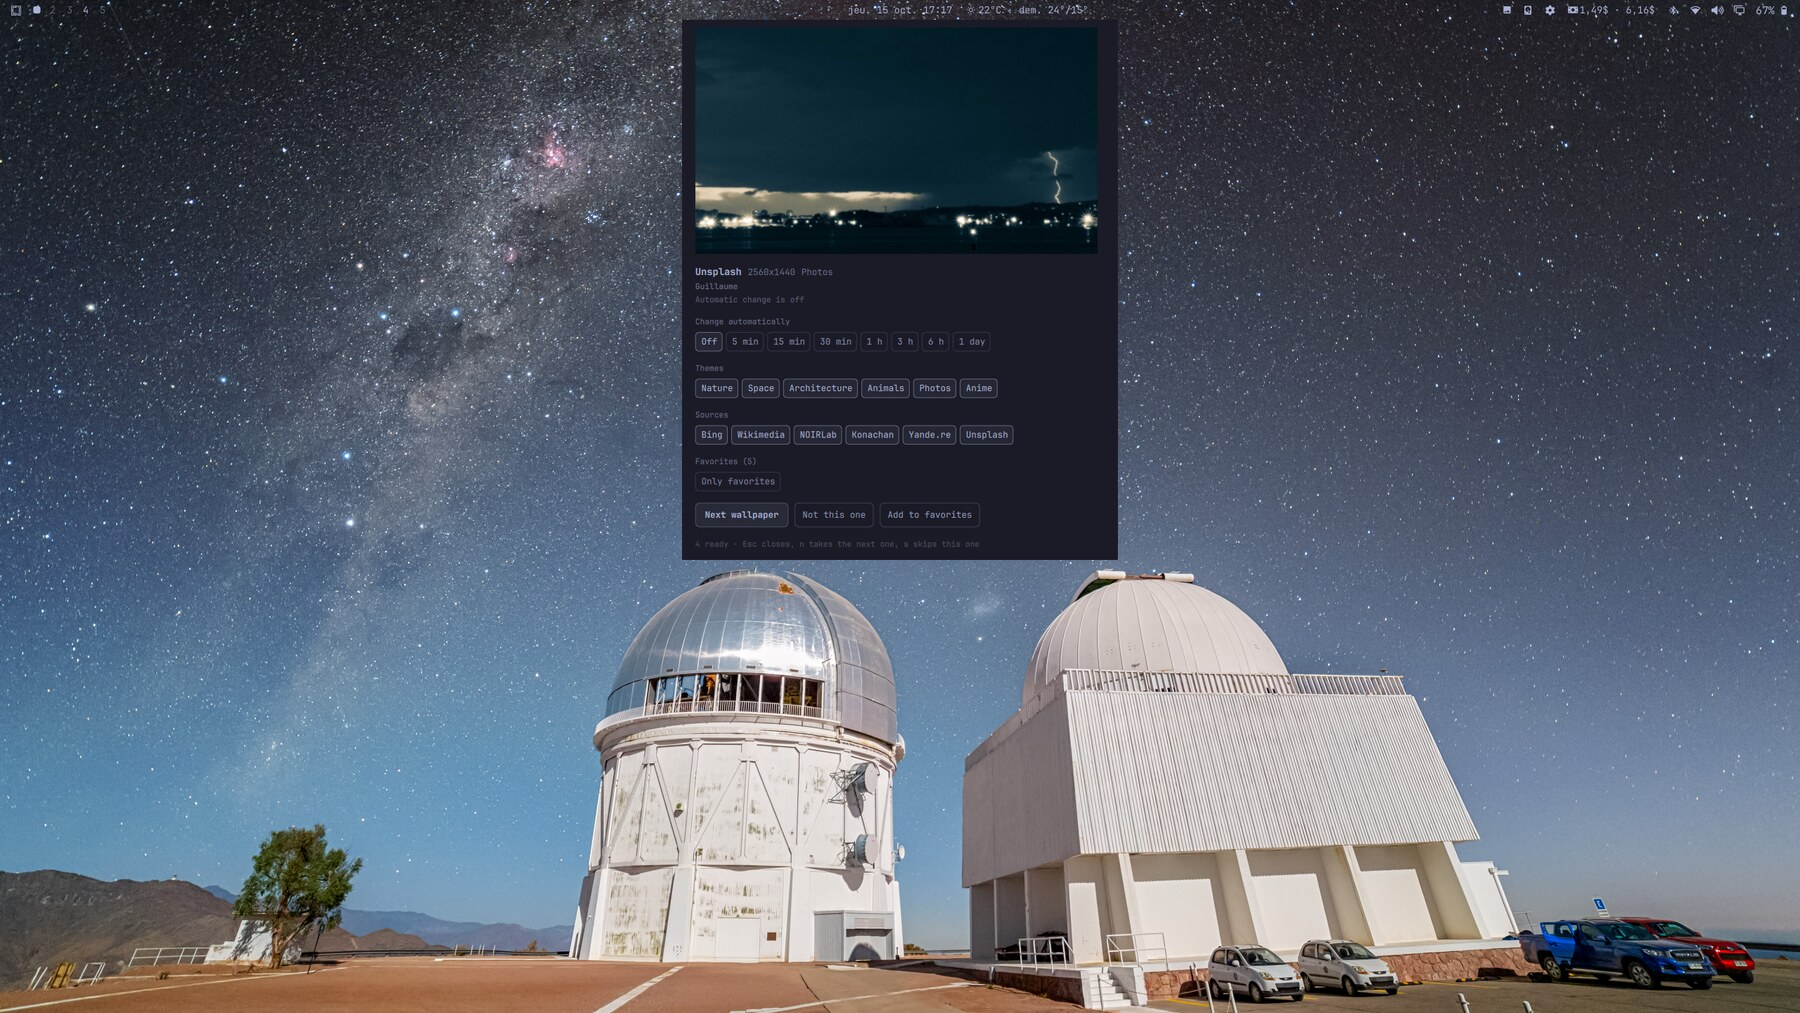
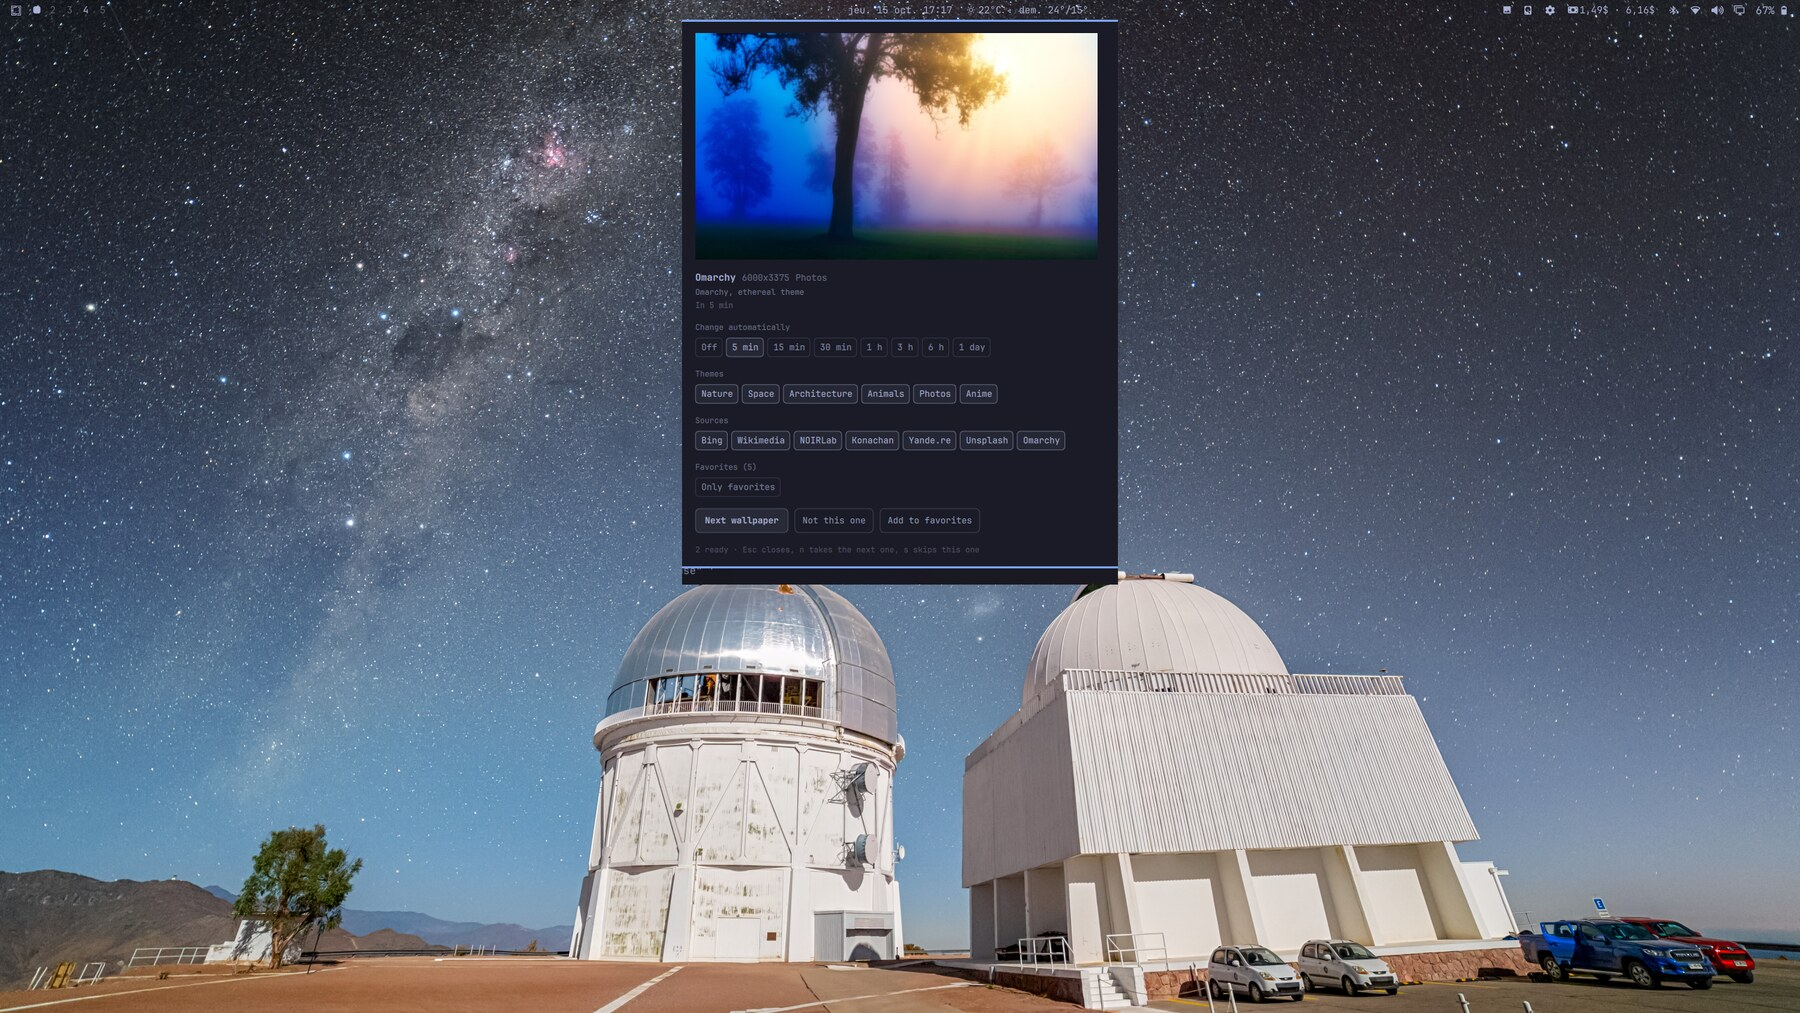
Serve the wallpapers Omarchy already ships
A seventh source reads the backgrounds of the installed themes, and of the
themes you added yourself, without a request and without a copy: the
picture is applied where it lies. Nothing is deleted either, so
"Not this one" blocks a system wallpaper instead of removing it.

The source pill row wraps when it needs to, and the README and the
manifest say seven sources.

Changed region(s): [[0.3733, 0.0, 0.6222, 0.5814]]

diff --git a/Panel.qml b/Panel.qml
@@ -463,7 +463,8 @@ Panel {
             font.pixelSize: Style.font.caption
           }
 
-          Row {
+          Flow {
+            width: parent.width
             spacing: Style.space(4)
 
             Repeater {
@@ -522,7 +523,8 @@ Panel {
             font.pixelSize: Style.font.caption
           }
 
-          Row {
+          Flow {
+            width: parent.width
             spacing: Style.space(4)
 
             Repeater {

diff --git a/Model.js b/Model.js
@@ -14,7 +14,8 @@ var SOURCES = [
   { id: "noirlab",   label: "NOIRLab",   themes: ["space"] },
   { id: "konachan",  label: "Konachan",  themes: ["anime"] },
   { id: "yandere",   label: "Yande.re",  themes: ["anime"] },
-  { id: "picsum",    label: "Unsplash",  themes: ["photos"] }
+  { id: "picsum",    label: "Unsplash",  themes: ["photos"] },
+  { id: "omarchy",   label: "Omarchy",   themes: ["photos"] }
 ]
 
 var THEMES = [

diff --git a/README.md b/README.md
@@ -21,7 +21,7 @@ then takes a new one every day.
 
 | | |
 |---|---|
-| **Six sources, no API key** | Bing's picture of the day, Wikimedia Commons featured and quality photography, NOIRLab's image of the week for the night sky, Konachan and Yande.re anime art, and Unsplash photographs served through Picsum |
+| **Seven sources, no API key** | Bing's picture of the day, Wikimedia Commons featured and quality photography, NOIRLab's image of the week for the night sky, the wallpapers Omarchy itself ships, Konachan and Yande.re anime art, and Unsplash photographs served through Picsum |
 | **Wallpapers, not random images** | Every candidate has to be at least as large as your largest screen, and shaped like a widescreen desktop. Portrait shots and long panoramas are dropped before anything is downloaded, the file's real size is measured again after the download, and obvious non-photographs (museum specimens, murals, maps, diagrams) are filtered out by keyword |
 | **A theme filter** | Nature, Space, Architecture, Animals, Photos, Anime. A theme that is off is never queried, so nothing from it can reach your screen, and a source that cannot serve the chosen themes is not queried at all. Switching every theme off means nothing is filtered, rather than nothing is allowed |
 | **An instant switch** | Two wallpapers are downloaded ahead of time, so asking for the next one takes about a third of a second instead of a few seconds. One is fetched in the background as soon as you pick one, and the pool never grows past four |
@@ -35,7 +35,7 @@ then takes a new one every day.
 
 ![The Milky Way over Gemini South, a hermit crab in Madagascar, an anime scene from Konachan](docs/wallpapers.jpg)
 
-Three of the six sources, three of the six themes: NOIRLab for Space,
+Three of the seven sources, three of the six themes: NOIRLab for Space,
 Wikimedia Commons for Nature, Konachan for Anime. Each picture keeps its author
 and its licence in the panel.
 
@@ -46,6 +46,7 @@ and its licence in the panel.
 | Bing | The day's photograph, served with the Photos theme. Nothing else is claimed about it, since the picture is chosen by someone else | Bing, credited to its author |
 | Wikimedia Commons | Featured and quality photography, and featured galaxy pictures for Space | Free licence per image, shown in the panel |
 | NOIRLab | The image of the week: the Milky Way over an observatory, a comet, an eclipse, the odd galaxy | NOIRLab/NSF/AURA, CC BY 4.0 |
+| Omarchy | The wallpapers shipped with your Omarchy themes, plus the ones in your own theme folders. Already on the disk, so nothing is downloaded and nothing is copied: the picture is put on screen where it lies, and "Not this one" blocks it without deleting it | Shipped with Omarchy |
 | Konachan, Yande.re | Anime art at 4K and beyond, for the Anime theme | Fan art, credited to its artist |
 | Unsplash via Picsum | Photographs, theme "Photos" | Unsplash License |
 
@@ -54,6 +55,8 @@ screen size, so nothing else can come back from them. The panel dims a source
 whose themes are all switched off, so it is obvious why it stays quiet.
 
 ## Usage
+
+![The panel: preview and credit, interval, theme filter, sources, favorites, actions](docs/panel.jpg)
 
 ![The bar pill, between the tray and the other widgets](docs/bar.jpg)
 
@@ -110,7 +113,8 @@ interface is QML on the Quickshell that Omarchy ships.
 ## What leaves the machine
 
 One HTTPS request to the chosen source when a change is due or when you ask for
-the next wallpaper, then one more for the image itself. No account, no API key,
+the next wallpaper, then one more for the image itself. The Omarchy source asks
+for nothing at all: it reads the wallpapers already installed on the machine. No account, no API key,
 no telemetry, nothing sent anywhere else. Each source is queried through its
 public API and the images are the ones the site already serves to the public.
 
@@ -139,8 +143,8 @@ rm -rf ~/Pictures/Fresque ~/.local/state/fresque ~/.config/omarchy/fresque.json
 
 ## What it does not do
 
-- No custom sources. The six that ship are the ones that can be used without an
-  API key and without scraping a website.
+- No custom sources. The seven that ship are the ones that can be used without
+  an API key and without scraping a website.
 - No separate wallpaper per screen. Omarchy draws one background across every
   screen, so Fresque picks pictures that fit your largest one instead.
 - No video, no shader, no animated background.
